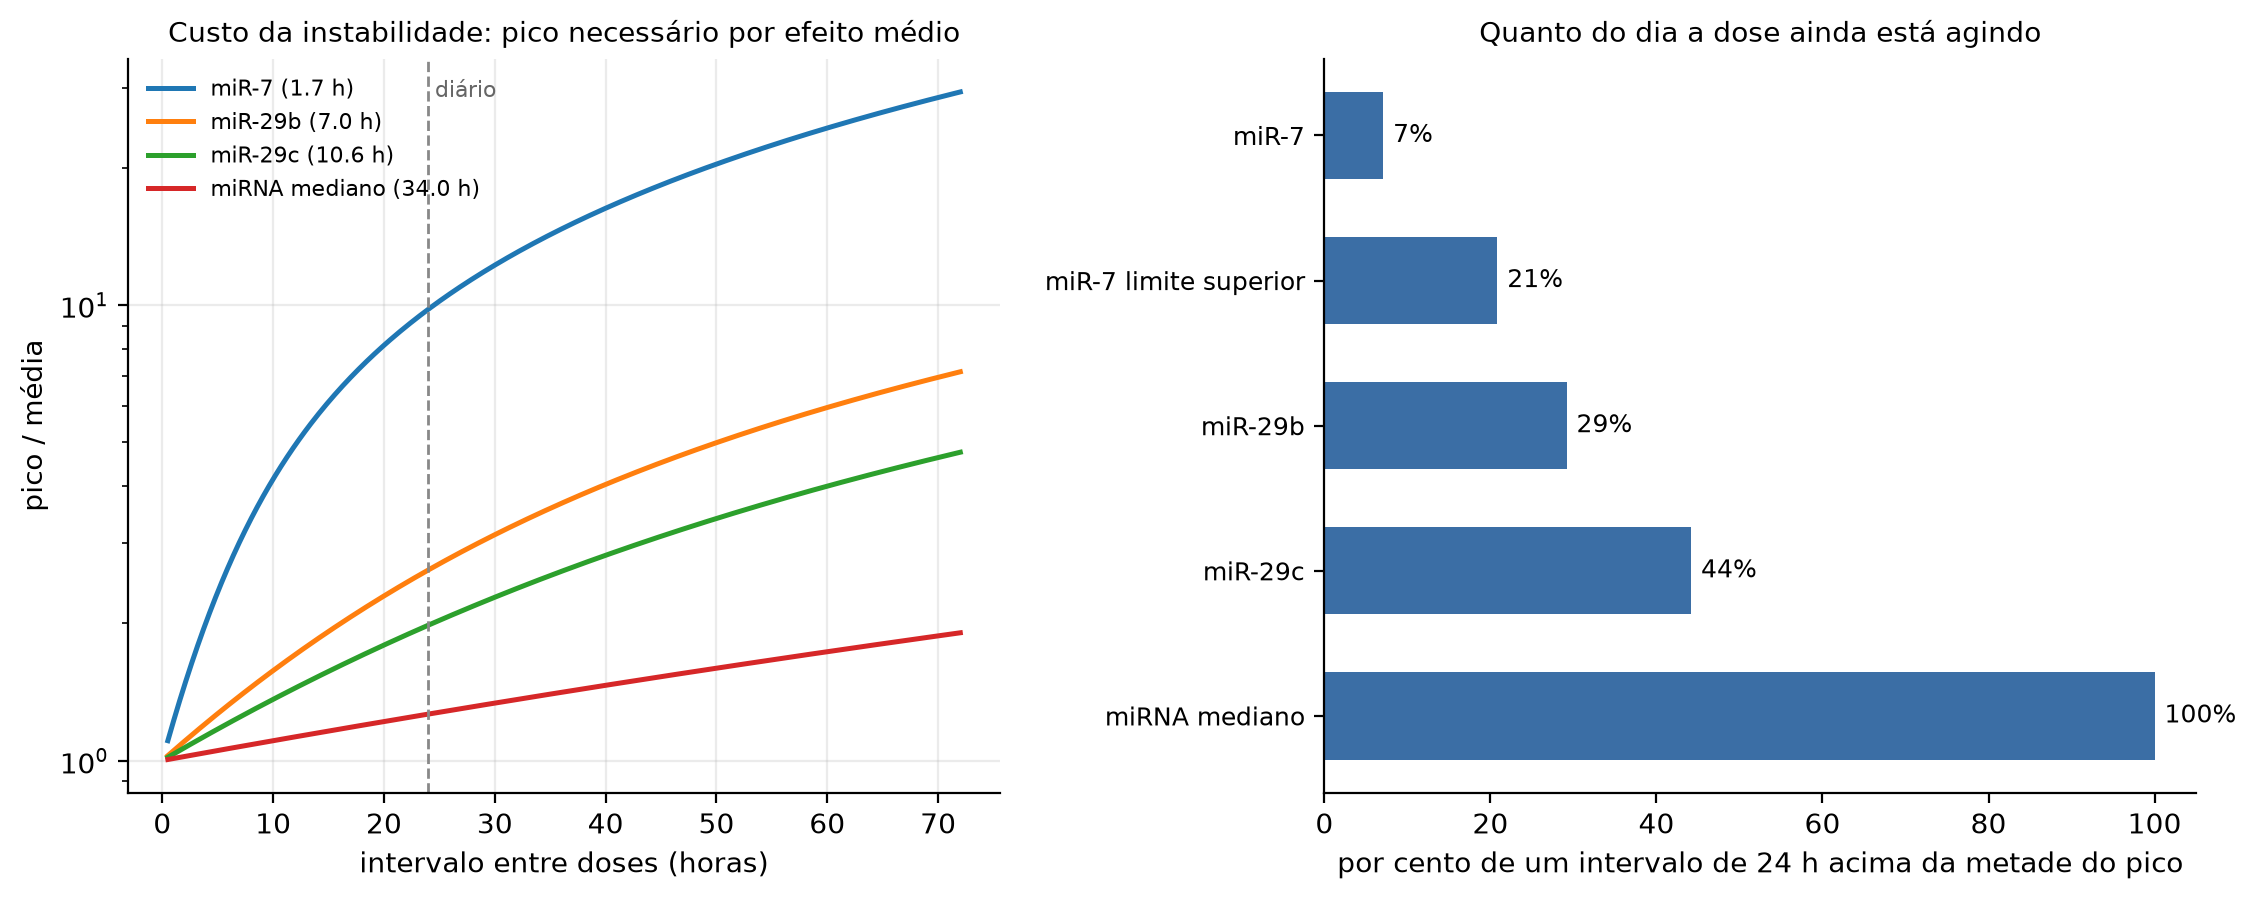
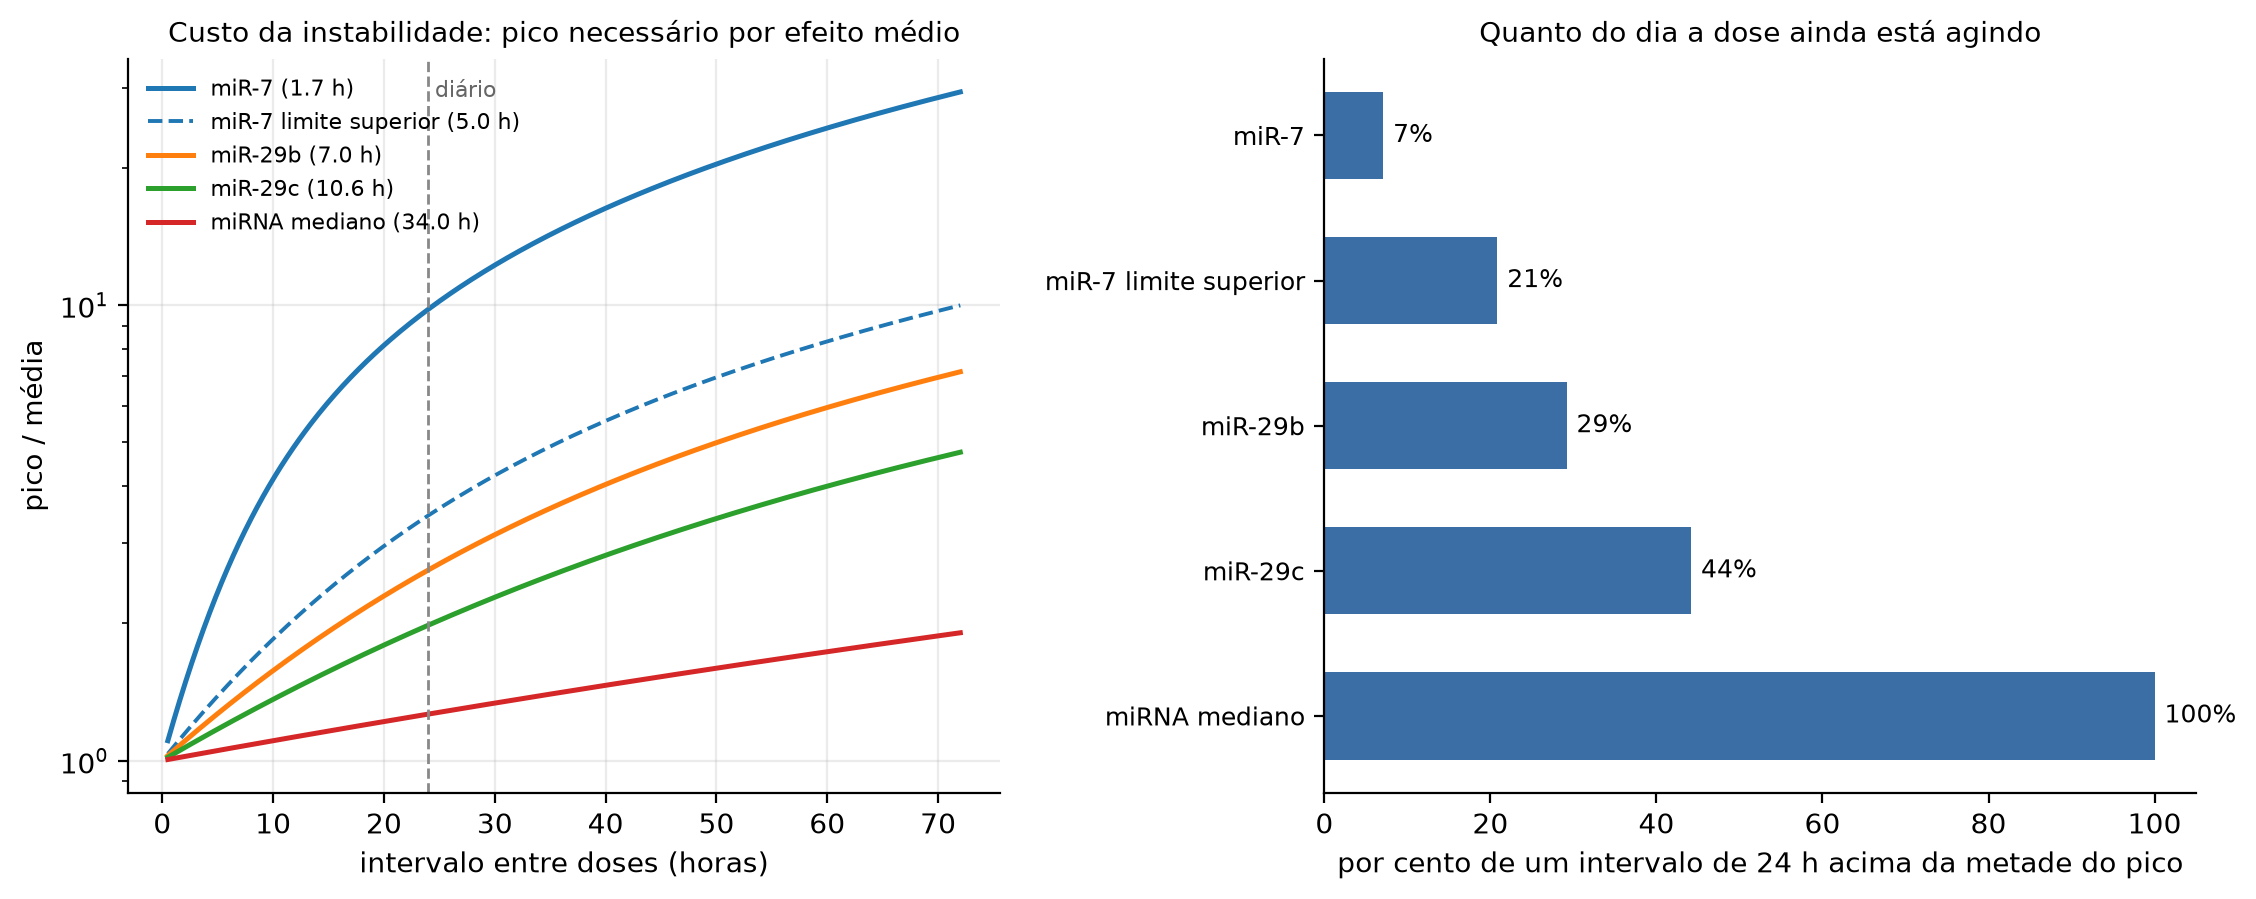
Two figure fixes found by looking at the figures
The QUADAS-2 chart carried a grey "Not assessed" key although nothing on the
chart is grey any more, which sends the reader looking for a bar that is not
there. The legend now lists only the categories actually present.

The dosing figure dropped the miR-7 upper bound from the left panel while
keeping it in the right one. The two miR-7 rows are the two ends of one
measurement, not two species, so the gap between them is the uncertainty in
the miR-7 half-life; hiding it made the penalty look better determined than
the source allows. It is now drawn dashed in the same colour.

Claude-Session: https://claude.ai/code/session_016i4KnqkjGfsX3TAuKPCtVN

diff --git a/scripts/17_mimic_dosing_feasibility.py b/scripts/17_mimic_dosing_feasibility.py
@@ -180,13 +180,27 @@ def plot(dec, rows, path, lang):
 
     ax = axes[0]
     T = np.linspace(0.5, 72, 400)
+    # EN | The two miR-7 rows are the two ends of one measurement, not two species, so
+    #      the upper bound is drawn as a dashed line in the same colour: the gap between
+    #      the pair is the uncertainty in the miR-7 half-life, and hiding it would make
+    #      the penalty look better determined than the source allows. The right panel
+    #      lists both for the same reason.
+    # PT | As duas linhas de miR-7 sao os dois extremos de uma mesma medida, nao duas
+    #      especies, entao o limite superior sai tracejado na mesma cor: a distancia entre
+    #      o par e a incerteza da meia-vida do miR-7, e esconde-la faria a penalidade
+    #      parecer mais bem determinada do que a fonte permite. O painel da direita lista
+    #      os dois pela mesma razao.
+    mir7_colour = None
     for key, info in dec.items():
-        if key == "miR-7 upper bound":
-            continue
         y = [peak_to_average(info["decay_per_hour"], x) for x in T]
-        ax.plot(T, y, lw=1.8,
-                label=f"{tr(lang, info['label_en'], info['label_pt'])} "
-                      f"({info['half_life_hours']:.1f} h)")
+        upper = key == "miR-7 upper bound"
+        line, = ax.plot(T, y, lw=1.4 if upper else 1.8,
+                        ls="--" if upper else "-",
+                        color=mir7_colour if upper else None,
+                        label=f"{tr(lang, info['label_en'], info['label_pt'])} "
+                              f"({info['half_life_hours']:.1f} h)")
+        if key == "miR-7":
+            mir7_colour = line.get_color()
     ax.axvline(24, color="#888888", ls="--", lw=1)
     ax.text(24.6, ax.get_ylim()[1] * 0.93, tr(lang, "daily", "diário"),
             fontsize=8, color="#666666")

diff --git a/scripts/14_quadas2_risk_of_bias.py b/scripts/14_quadas2_risk_of_bias.py
@@ -367,9 +367,17 @@ def plot(assessment, path, lang):
     ax.set_xlim(0, 100)
     ax.set_title(t(lang, "QUADAS-2: risk of bias and applicability",
                    "QUADAS-2: risco de viés e aplicabilidade"), fontsize=11)
-    handles = [plt.Rectangle((0, 0), 1, 1, color=colour[v]) for v in order]
-    ax.legend(handles, [label[v] for v in order], loc="lower center",
-              bbox_to_anchor=(0.5, -0.32), ncol=4, fontsize=8, frameon=False)
+    # EN | Only put a category in the legend if it is actually on the chart. A grey
+    #      "Not assessed" key above a chart with no grey in it invites the reader to go
+    #      looking for a bar that is not there.
+    # PT | So entra na legenda a categoria que esta de fato no grafico. Uma chave cinza
+    #      "Nao avaliado" sobre um grafico sem nada de cinza convida o leitor a procurar
+    #      uma barra que nao existe.
+    present = [v for v in order
+               if any(r[k] == v for r in assessment for k in keys)]
+    handles = [plt.Rectangle((0, 0), 1, 1, color=colour[v]) for v in present]
+    ax.legend(handles, [label[v] for v in present], loc="lower center",
+              bbox_to_anchor=(0.5, -0.32), ncol=len(present), fontsize=8, frameon=False)
     ax.spines[["top", "right"]].set_visible(False)
     fig.tight_layout()
     fig.savefig(path, dpi=200, bbox_inches="tight")
